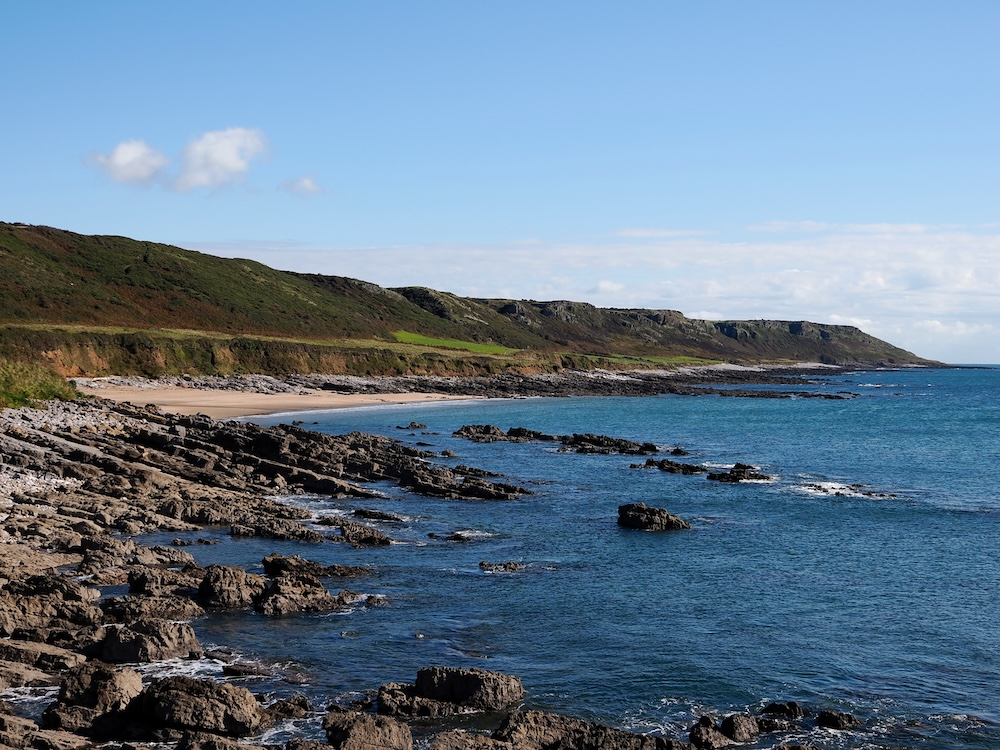
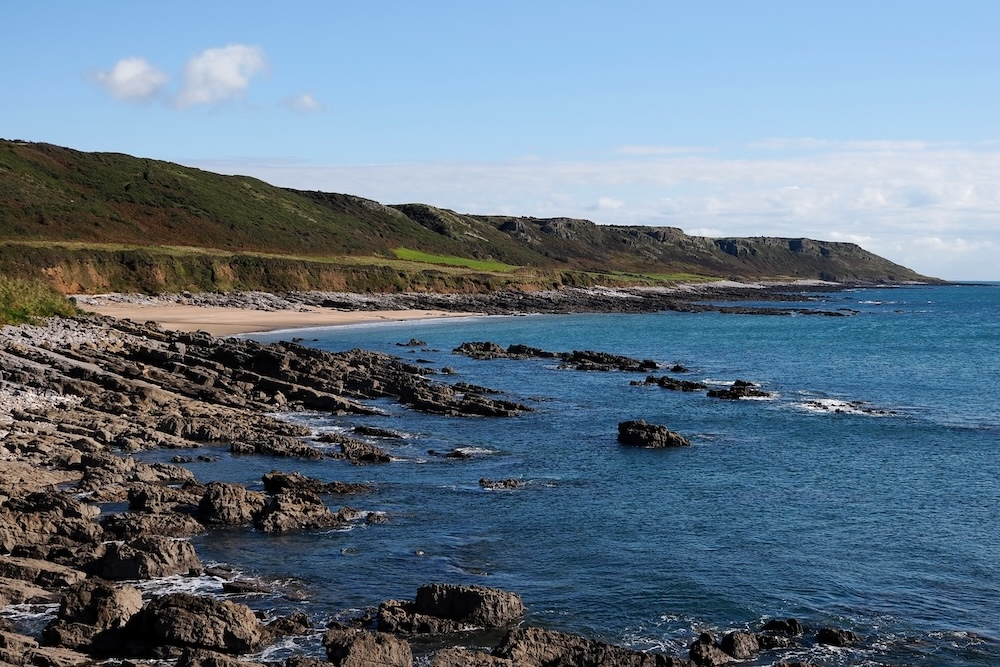
resizing the images again, should be good now

diff --git a/_pages/social.html b/_pages/social.html
@@ -35,15 +35,15 @@ published: true
             See more with the <a href="https://www.thegowersociety.org.uk/" title="Link to Gower Society webpages">Gower Society</a>.
 
             <div class="row align-items-center" style="text-align: center;">
-                <div class="col-5 col-sm-5 col-m5-3" data-aos="fade-up">
+                <div class="col-6 col-sm-6 col-md-6" data-aos="fade-up">
                     <div style="width: 100%; margin-top: 20px; margin-bottom: 20px; text-align: right">
                         <img src="assets/mewslade.jpeg" class="w-auto" title="Mewslade Bay, Gower" alt="Photograph of a bay showing a rocky shoreline and sandy beach behind it.">
                     </div>
                 </div>
-                <div class="col-5 col-sm-5 col-m5-3" data-aos="fade-up">
+                <div class="col-6 col-sm-6 col-md-6" data-aos="fade-up">
                     <div style="width: 100%; margin-top: 20px; margin-bottom: 20px; text-align: right">
                         <img src="assets/three-cliffs.jpeg" class="w-auto" title="Three Cliffs Bay, Gower" alt="Photograph of three pointed cliffs on a beach.">
-                        <emph>Photographs courtesy Troy Astarte. CC BY-SA.</emph>
+                        <i class="text-sm">Photographs courtesy Troy Astarte. CC BY-SA.</i>
                     </div>
                 </div>
             </div>
